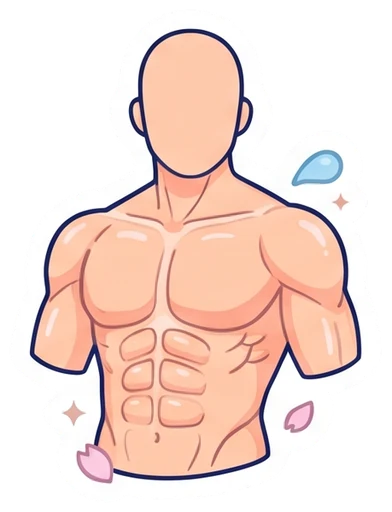
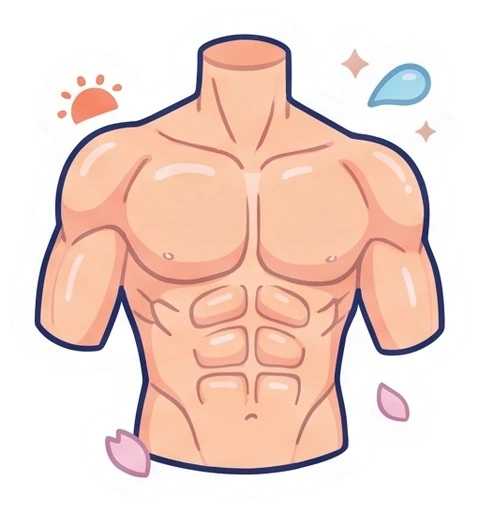
Rond de profil : badges couronne, étoile, diamant, soleil, fleur, arc en ciel ; sèche sans tête
Claude-Session: https://claude.ai/code/session_01MBUGLkxL9svd2kqbwm6f75

diff --git a/components/yoroi/v2/stickers.ts b/components/yoroi/v2/stickers.ts
@@ -1,5 +1,5 @@
 /**
- * Stickers YOROI (27 octobre 2026) : 152 illustrations facon autocollant (contour blanc, fond transparent),
+ * Stickers YOROI (27 octobre 2026) : 158 illustrations facon autocollant (contour blanc, fond transparent),
  * qui remplacent les anciennes illustrations « icones » de l'app. Sources : _propositions/stickers_2026-10-27/png,
  * converties en webp 512 px dans assets/avatars/app/stickers/. Les anciens fichiers restent en place.
  *
@@ -31,6 +31,7 @@ export const STICKERS = {
   activite: require('@/assets/avatars/app/stickers/activite.webp'),
   aide: require('@/assets/avatars/app/stickers/aide.webp'),
   appareil_photo: require('@/assets/avatars/app/stickers/appareil_photo.webp'),
+  arc_en_ciel: require('@/assets/avatars/app/stickers/arc_en_ciel.webp'),
   balance: require('@/assets/avatars/app/stickers/balance.webp'),
   balance_ancienne: require('@/assets/avatars/app/stickers/balance_ancienne.webp'),
   bambou: require('@/assets/avatars/app/stickers/bambou.webp'),
@@ -60,8 +61,10 @@ export const STICKERS = {
   conditions: require('@/assets/avatars/app/stickers/conditions.webp'),
   corps: require('@/assets/avatars/app/stickers/corps.webp'),
   cou: require('@/assets/avatars/app/stickers/cou.webp'),
+  couronne: require('@/assets/avatars/app/stickers/couronne.webp'),
   course: require('@/assets/avatars/app/stickers/course.webp'),
   debuter: require('@/assets/avatars/app/stickers/debuter.webp'),
+  diamant: require('@/assets/avatars/app/stickers/diamant.webp'),
   donnees: require('@/assets/avatars/app/stickers/donnees.webp'),
   donnees_telephone: require('@/assets/avatars/app/stickers/donnees_telephone.webp'),
   empreintes: require('@/assets/avatars/app/stickers/empreintes.webp'),
@@ -70,9 +73,11 @@ export const STICKERS = {
   energie: require('@/assets/avatars/app/stickers/energie.webp'),
   environnement: require('@/assets/avatars/app/stickers/environnement.webp'),
   erable: require('@/assets/avatars/app/stickers/erable.webp'),
+  etoile: require('@/assets/avatars/app/stickers/etoile.webp'),
   eventail: require('@/assets/avatars/app/stickers/eventail.webp'),
   fessiers: require('@/assets/avatars/app/stickers/fessiers.webp'),
   flamme: require('@/assets/avatars/app/stickers/flamme.webp'),
+  fleur: require('@/assets/avatars/app/stickers/fleur.webp'),
   force: require('@/assets/avatars/app/stickers/force.webp'),
   force_eclair: require('@/assets/avatars/app/stickers/force_eclair.webp'),
   fuji: require('@/assets/avatars/app/stickers/fuji.webp'),
@@ -140,6 +145,7 @@ export const STICKERS = {
   seance_rapide: require('@/assets/avatars/app/stickers/seance_rapide.webp'),
   seche: require('@/assets/avatars/app/stickers/seche.webp'),
   sentier: require('@/assets/avatars/app/stickers/sentier.webp'),
+  soleil: require('@/assets/avatars/app/stickers/soleil.webp'),
   sommeil: require('@/assets/avatars/app/stickers/sommeil.webp'),
   souffle: require('@/assets/avatars/app/stickers/souffle.webp'),
   sparring: require('@/assets/avatars/app/stickers/sparring.webp'),

diff --git a/components/yoroi/v2/reglages/contour.tsx b/components/yoroi/v2/reglages/contour.tsx
@@ -112,11 +112,17 @@ export const BADGES: { id: NomSticker; nom: string; famille: FamilleBadge }[] = 
   { id: 'objectifs', nom: 'Cible', famille: 'recompenses' },
   { id: 'montagne_drapeau', nom: 'Sommet', famille: 'recompenses' },
   { id: 'ceinture_nouee', nom: 'Ceinture', famille: 'recompenses' },
+  { id: 'couronne', nom: 'Couronne', famille: 'recompenses' },
+  { id: 'etoile', nom: traduire('Étoile'), famille: 'recompenses' },
+  { id: 'diamant', nom: 'Diamant', famille: 'recompenses' },
   { id: 'erable', nom: 'Feuille', famille: 'nature' },
   { id: 'vague', nom: 'Vague', famille: 'nature' },
   { id: 'sentier', nom: 'Chemin', famille: 'nature' },
   { id: 'sport_nature', nom: 'Camping', famille: 'nature' },
   { id: 'rocher', nom: 'Rocher', famille: 'nature' },
+  { id: 'soleil', nom: 'Soleil', famille: 'nature' },
+  { id: 'fleur', nom: 'Fleur', famille: 'nature' },
+  { id: 'arc_en_ciel', nom: 'Arc en ciel', famille: 'nature' },
   { id: 'torii', nom: 'Torii', famille: 'japon' },
   { id: 'sakura', nom: 'Sakura', famille: 'japon' },
   { id: 'kabuto', nom: 'Kabuto', famille: 'japon' },
